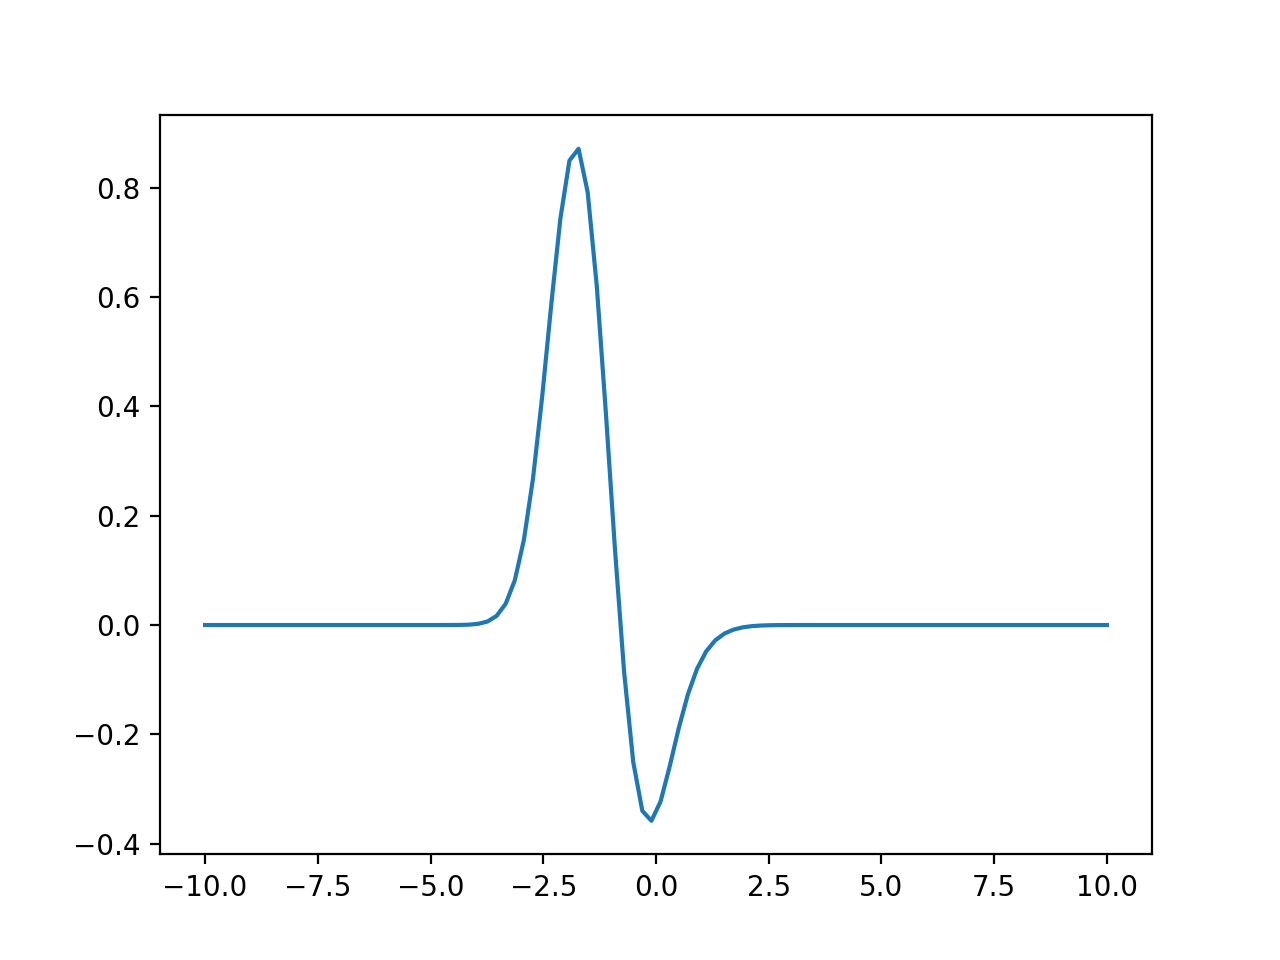
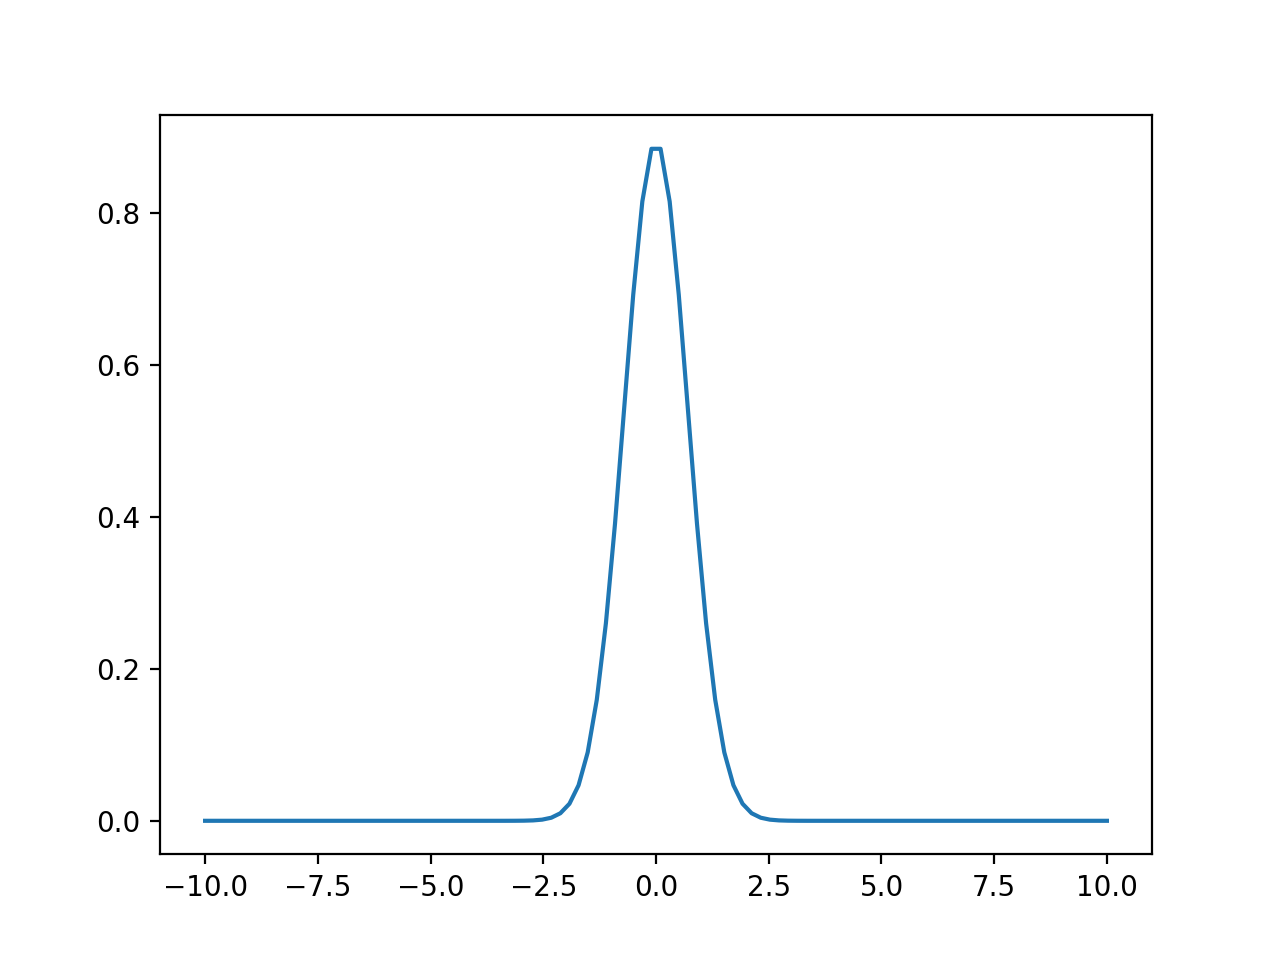
correct Schmidt mode computation

diff --git a/pyqentangle/schmidt.py b/pyqentangle/schmidt.py
@@ -74,9 +74,7 @@ def schmidt_decomposition(bipartitepurestate_tensor):
 
     rho1 = bipartitepurestate_reduceddensitymatrix(bipartitepurestate_tensor, 1)
     eigenvalues1, unitarymat1 = eig(rho1)
-    # inv_unitarymat1 = np.linalg.inv(unitarymat1)
-    inv_unitarymat1 = np.conj(np.transpose(unitarymat1))
-    coefmat0 = np.matmul(bipartitepurestate_tensor, inv_unitarymat1)
+    coefmat0 = np.matmul(bipartitepurestate_tensor, unitarymat1)
 
     decomposition = [(float(np.real(eigenvalues1[k])),
                       coefmat0[:, k] / np.linalg.norm(coefmat0[:, k]),

diff --git a/test/testContinuousEntanglement.py b/test/testContinuousEntanglement.py
@@ -24,6 +24,8 @@ class testContinuousEntanglement(unittest2.TestCase):
         norm2, err2 = quad(lambda x2: np.real(np.conjugate(decompositions[0][2](np.array([x2])))*decompositions[0][2](np.array([x2]))), -10, 10)
         print(norm1, err1)
         print(norm2, err2)
+        self.assertAlmostEqual(norm1, 1.)
+        self.assertAlmostEqual(norm2, 1.)
 
     def testInterpolation(self):
         xarray = np.array([0., 1., 2.])

diff --git a/README.md b/README.md
@@ -1,4 +1,7 @@
 # Quantum Entanglement for Python
+
+[![Build Status](https://travis-ci.org/stephenhky/pyqentangle.svg?branch=master)](https://travis-ci.org/stephenhky/pyqentangle)
+
 ## Installation
 
 This package can be installed using `pip`.
@@ -49,7 +52,7 @@ Then perform the Schmidt decomposition,
 where it describes the ranges of x1 and x2 respectively, and `keep=10` specifies only top 10 Schmidt modes are kept. Then we can read the Schmidt coefficients:
 
 ```
->>> map(lambda dec: dec[0], decompositions)
+>>> list(map(lambda dec: dec[0], decompositions))
 [0.88888888888888884,
  0.098765432098765565,
  0.010973936899862853,
@@ -67,13 +70,22 @@ The second and the third elements in each tuple in the list `decompositions` are
 >>> x1array = np.linspace(-10., 10., 100)
 >>> x2array = np.linspace(-10., 10., 100)
 >>> import matplotlib.pyplot as plt
+>>> # Eigenfunctions of the first Schmidt mode
 >>> plt.plot(x1array, decompositions[0][1](x1array))
 >>> plt.plot(x2array, decompositions[0][2](x2array))
+>>> # Eigenfunctions of the second Schmidt mode
+>>> plt.plot(x1array, decompositions[1][1](x1array))
+>>> plt.plot(x2array, decompositions[1][2](x2array))
 ```
 
 ![alt](fig/Figure_1A.png)
 
 ![alt](fig/Figure_1B.png)
+
+![alt](fig/Figure_2A.png)
+
+![alt](fig/Figure_2B.png)
+
 
 ## Useful Links
 
